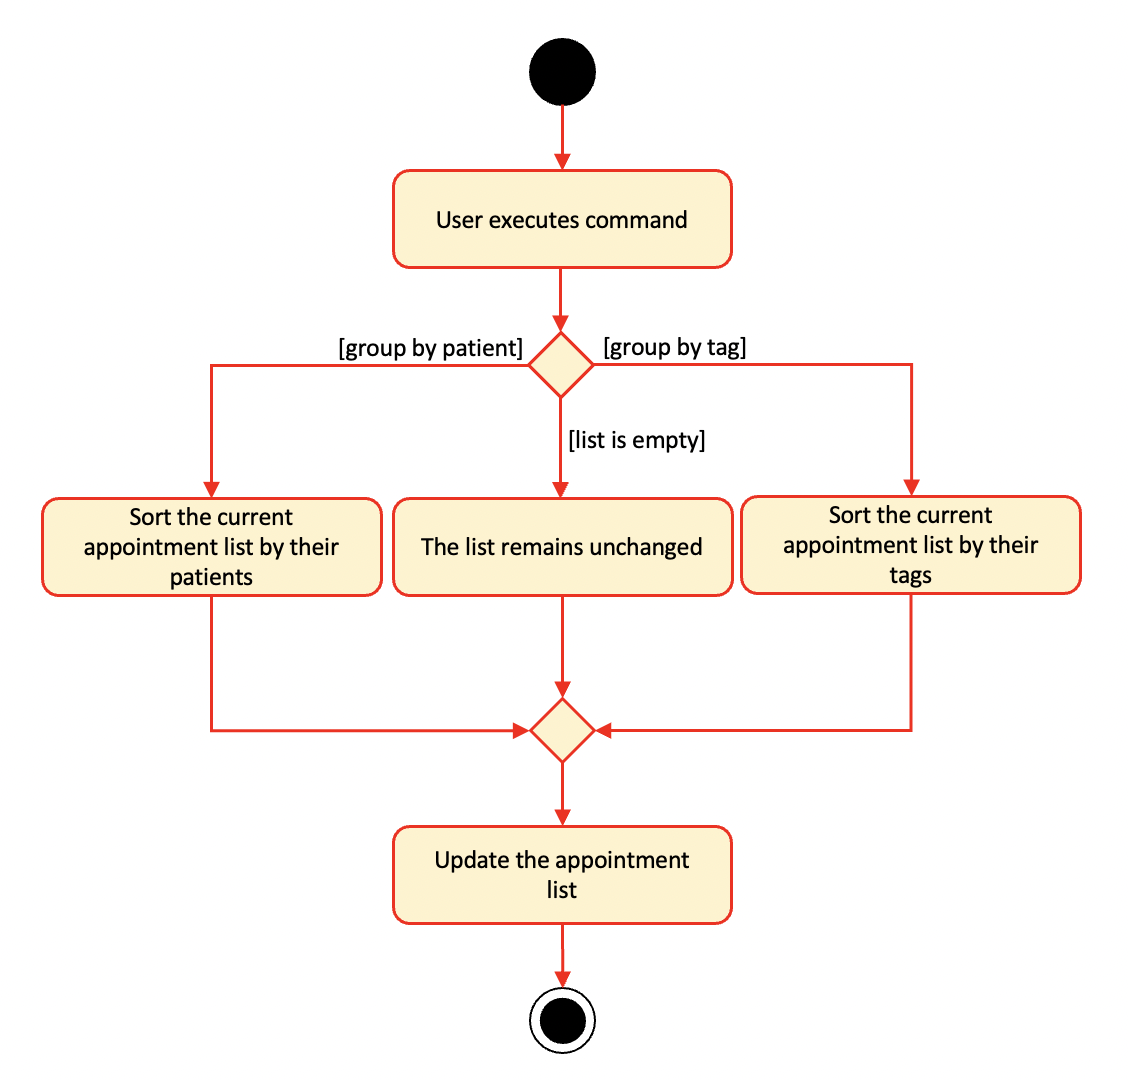
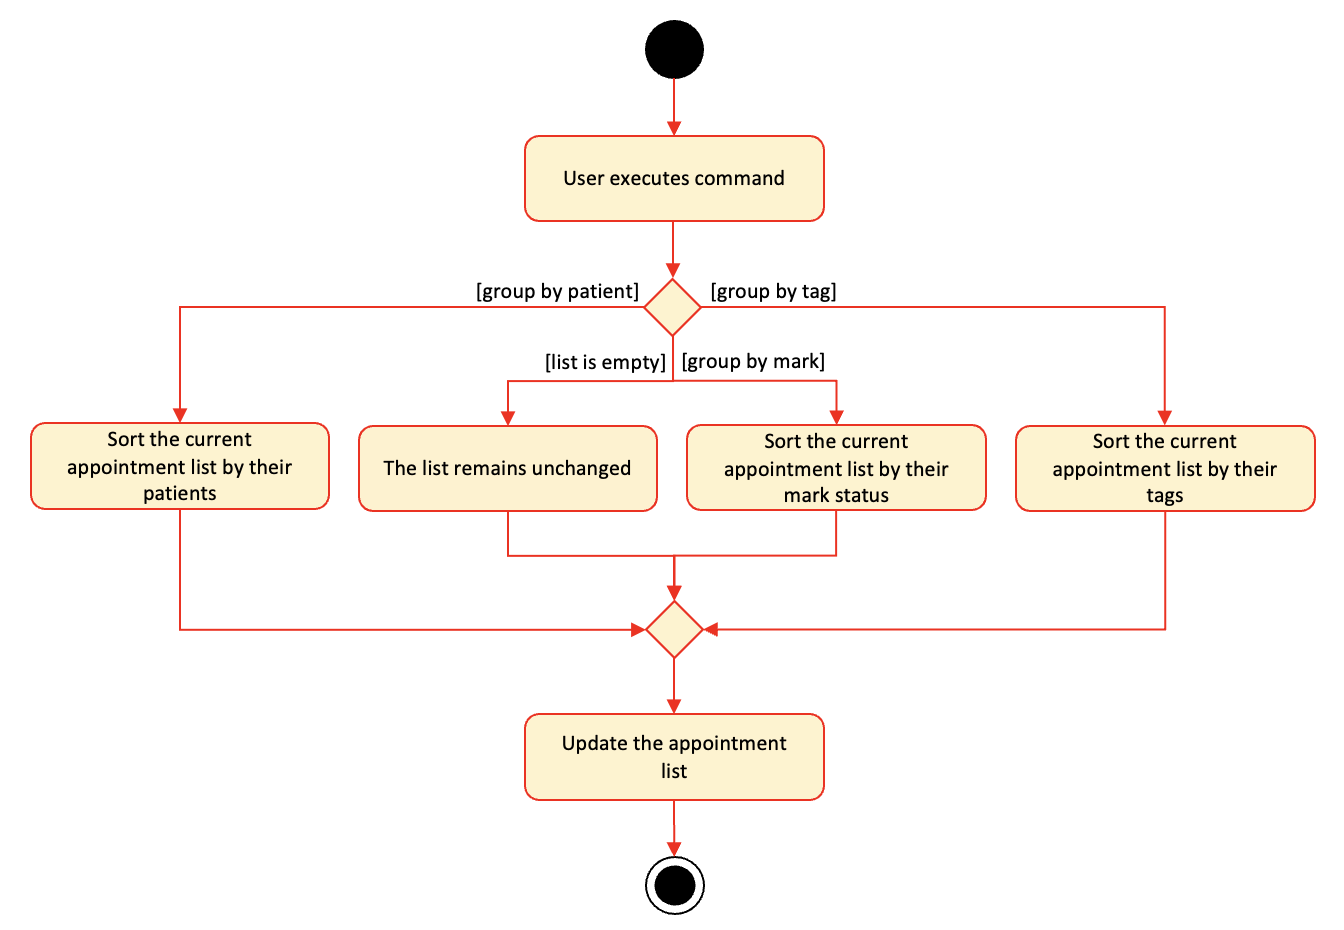
Update user guide

Changed region(s): [[0.0, 0.0, 0.9929, 0.5613], [0.1241, 0.5925, 0.8688, 0.9978]]

diff --git a/docs/UserGuide.md b/docs/UserGuide.md
@@ -86,6 +86,7 @@ Format:
 Examples:
 * `group appts k/tag`
 * `group appts k/patient`
+* `group appts k/mark`
 
 ### Ungrouping all patients/ appointments : `ungroup`
 
@@ -294,6 +295,9 @@ Action | Format, Examples
 **Delete** | `delete INDEX`<br> e.g., `delete 3`
 **Find** | `find [n/NAME] [p/PHONE] [e/EMAIL] [a/ADDRESS] [t/TAG]… [r/REASON] [ds/DATE_START] [de/DATE_END]`<br> e.g., `find n/Joshua e/Josh@example.com r/Tinnitus`
 **Book** | `book INDEX r/REASON d/DATE [pe/TIME PERIOD]` <br> e.g., `book 2 r/Ear Infection d/2022-12-31 18:00 pe/1Y`
+**Group Patients** | `group patients`
+**Group Appointents** | `group appts k/[KEY]` <br> e.g., `group appts k/mark`
+**Ungroup** | `ungroup patients` <br> `ungroup appts`
 **Mark** | `mark APPOINTMENT_INDEX` <br> e.g. `mark 3`
 **Unmark** | `unmark APPOINTMENT_INDEX` <br> e.g. `unmark 1`
 **Cancel** | `cancel APPOINTMENT_INDEX` <br> e.g., `cancel 2`
